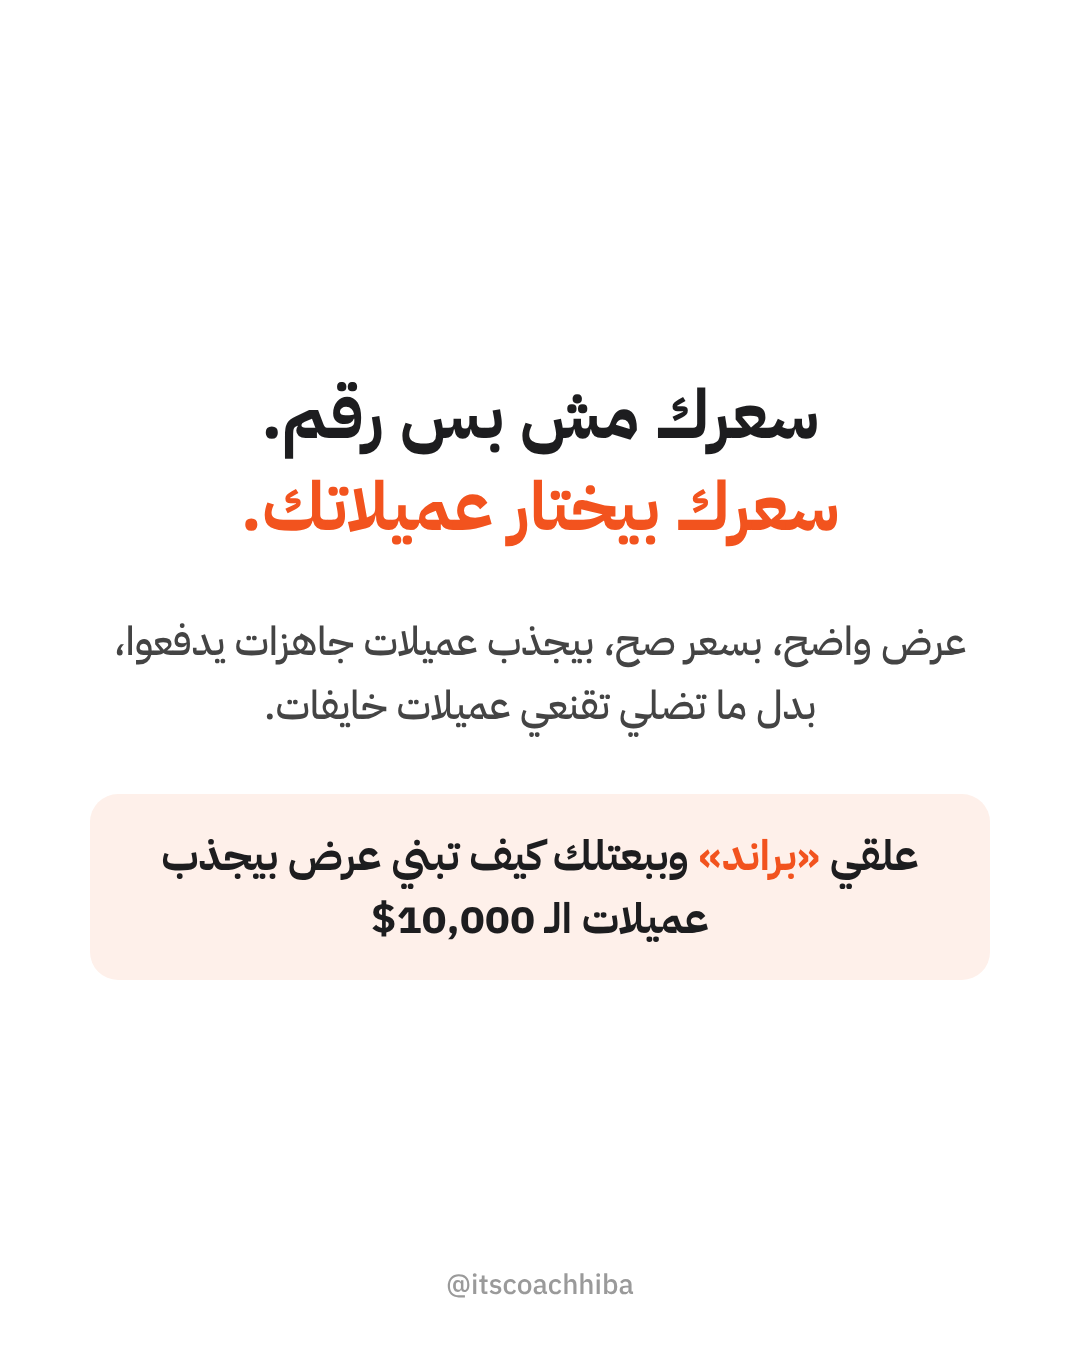
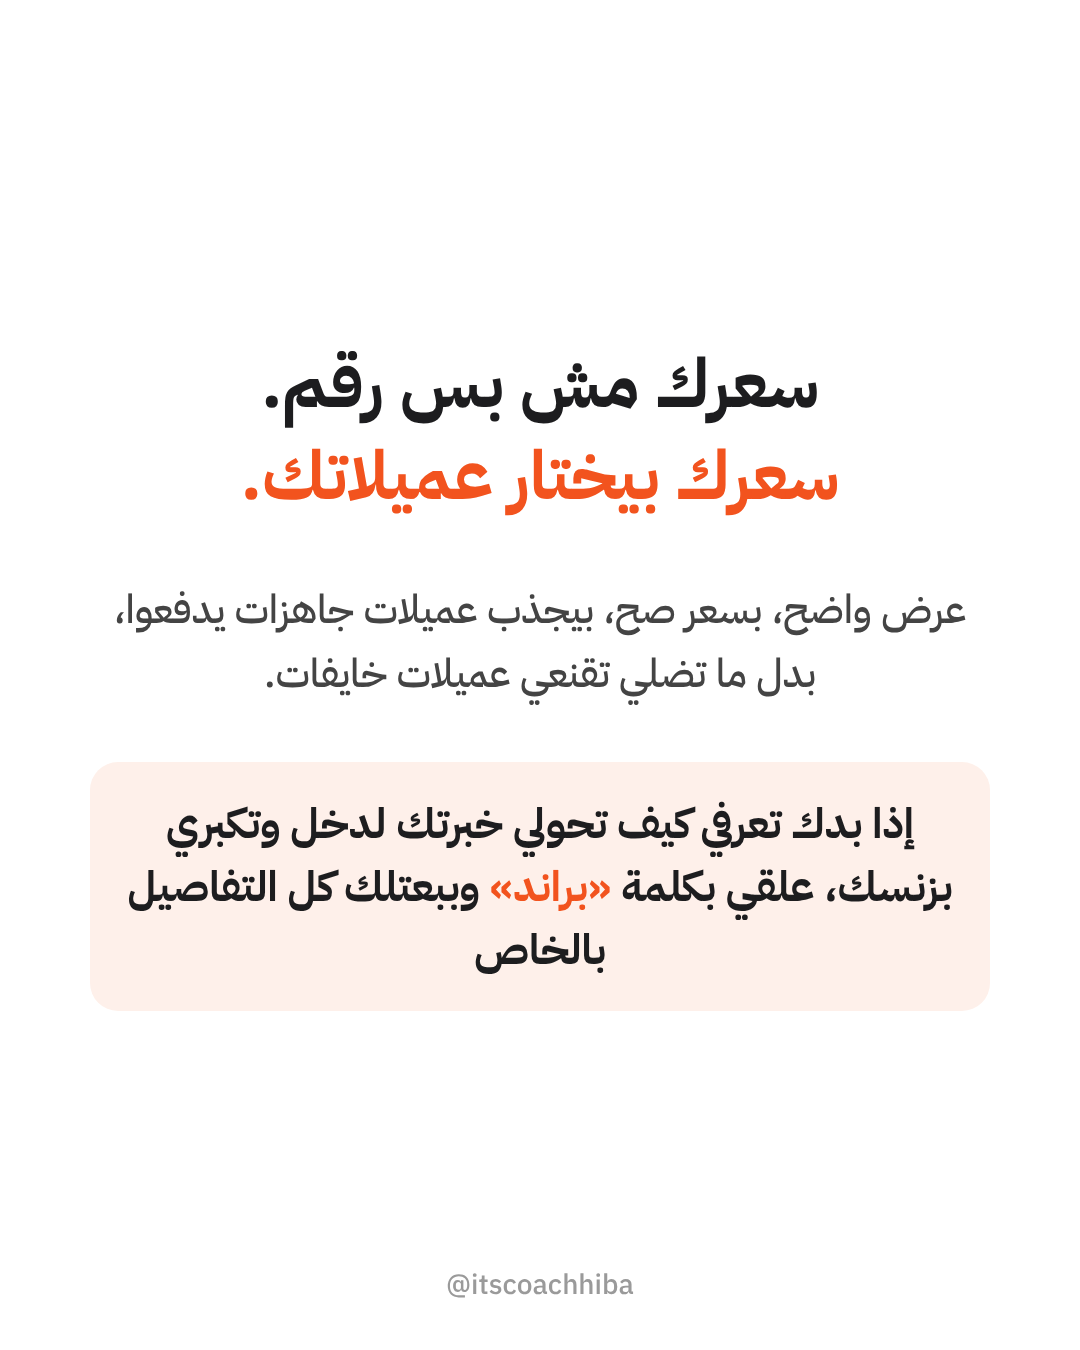
Carousel 19: chat-style messages and new CTA
Claude-Session: https://claude.ai/code/session_01Q3F4hydPDiJyjfKYRyCC3U

Changed region(s): [[0.1222, 0.5911, 0.8861, 0.7156], [0.0917, 0.4356, 0.8861, 0.56], [0.2444, 0.2489, 0.7944, 0.4044]]

diff --git a/carousels/19-500-vs-10k-client/carousel.html b/carousels/19-500-vs-10k-client/carousel.html
@@ -10,9 +10,14 @@
 .lab.r{right:122px}.lab.l{left:95px}
 .swipe{position:absolute;bottom:24px;left:0;right:0;font-weight:500;font-size:34px;color:#333}
 .q .half{position:absolute;bottom:-30px;height:1120px}
-.q.r .half{right:-60px}.q.l .half{left:-60px}
-.tag{position:absolute;top:80px;color:#fff;font-weight:700;font-size:44px;padding:10px 34px;border-radius:40px}
-.q.r .tag{right:70px}.q.l .tag{left:70px}
+.q.r .half{left:-10px}.q.l .half{left:-60px}
+.tag{color:#fff;font-weight:700;font-size:44px;padding:10px 34px;border-radius:40px;margin-bottom:14px}
+.chat{position:absolute;top:80px;width:600px;display:flex;flex-direction:column;align-items:flex-start;gap:12px}
+.q.r .chat{right:50px;width:560px}.q.l .chat{left:60px}
+.msg{background:#EDEDF0;border-radius:28px 28px 28px 8px;padding:14px 26px;font-weight:500;font-size:36px;line-height:1.4;box-shadow:0 2px 8px rgba(0,0,0,.07)}
+.msg.g{background:#2F5A3A;color:#fff;font-weight:700;font-size:48px;padding:20px 34px}
+.seen{font-weight:500;font-size:28px;color:#2F5A3A;margin:0 12px}
+
 .bubble{position:absolute;top:190px;width:560px;background:#fff;border:4px solid;border-radius:34px;padding:34px 38px;text-align:right;box-shadow:0 18px 50px rgba(0,0,0,.12)}
 .q.r .bubble{left:60px}.q.l .bubble{right:60px;width:500px}
 .bubble p{font-weight:500;font-size:40px;line-height:1.6}
@@ -25,15 +30,13 @@
 <div class="lab r" style="color:#B3262B">عميلة <span dir="ltr">$500</span><i style="background:#B3262B"></i></div>
 <div class="lab l" style="color:#2F5A3A">عميلة <span dir="ltr">$10,000</span><i style="background:#2F5A3A"></i></div>
 <div class="swipe">اسحبي لتشوفي الفرق ←</div></section><section class="slide q r"><img class="half" src="thinking.jpg">
-<div class="tag" style="background:#B3262B">عميلة <span dir="ltr">$500</span></div>
-<div class="bubble" style="border-color:#B3262B"><p>«بحس إنو مع هالاستثمار اللي رح أعمله فيكي، لازم نفهم كيف رح تتغير حياتنا. أنا بدي نتايج، وإنتي لازم تجيبيها. أنا عم أأتمنك على رزقنا وعلى حياتنا.»</p></div><div class="h">@itscoachhiba</div></section><section class="slide q l"><img class="half" src="ready.jpg">
-<div class="tag" style="background:#2F5A3A">عميلة <span dir="ltr">$10,000</span></div>
-<div class="bubble" style="border-color:#2F5A3A"><p>«حولت المصاري. شكرا.»</p></div><div class="h">@itscoachhiba</div></section><section class="slide txt"><div class="box">
+<div class="chat"><div class="tag" style="background:#B3262B">عميلة <span dir="ltr">$500</span></div><div class="msg">بحس إنو بدي وقت لأفكر أكتر</div><div class="msg">أنا بدي نتائج وإنتي لازم تجيبيها</div><div class="msg">أنا عم أأتمنك على رزقنا وحياتنا</div><div class="msg">لازم آخد رأي فلان قبل ما أبدأ</div><div class="msg">في خيارات تقسيط على 6 شهور؟</div><div class="msg">محتاجة معلومات أكتر</div></div><div class="h">@itscoachhiba</div></section><section class="slide q l"><img class="half" src="ready.jpg">
+<div class="chat"><div class="tag" style="background:#2F5A3A">عميلة <span dir="ltr">$10,000</span></div><div class="msg g">حولت المصاري. شكرا.</div><div class="seen">✓✓ تم الدفع</div></div><div class="h">@itscoachhiba</div></section><section class="slide txt"><div class="box">
 <p class="big">العميلة اللي بتدفع أقل…<br><b style="color:#B3262B">بتطلب أكتر.</b></p>
 <p class="big">والعميلة اللي بتدفع أكتر…<br><b style="color:#2F5A3A">بتثق أكتر.</b></p>
 <p class="sub">لأنها ما عم تشتري ساعات من وقتك. عم تشتري نتيجة واضحة من شخص بتعرف شو بيقدم.</p>
 </div><div class="h">@itscoachhiba</div></section><section class="slide txt"><div class="box">
 <p class="big">سعرك مش بس رقم.<br><b style="color:#F2531E">سعرك بيختار عميلاتك.</b></p>
 <p class="sub">عرض واضح، بسعر صح، بيجذب عميلات جاهزات يدفعوا، بدل ما تضلي تقنعي عميلات خايفات.</p>
-<div class="cta">علقي <b>«براند»</b> وببعتلك كيف تبني عرض بيجذب عميلات الـ <span dir="ltr">$10,000</span></div>
+<div class="cta">إذا بدك تعرفي كيف تحولي خبرتك لدخل وتكبري بزنسك، علقي بكلمة <b>«براند»</b> وببعتلك كل التفاصيل بالخاص</div>
 </div><div class="h">@itscoachhiba</div></section></body></html>

diff --git a/carousels/19-500-vs-10k-client/build.py b/carousels/19-500-vs-10k-client/build.py
@@ -10,15 +10,16 @@ slides.append(f'''<section class="slide cover"><img class="full" src="both.jpg">
 <div class="lab l" style="color:{GREEN}">عميلة <span dir="ltr">$10,000</span><i style="background:{GREEN}"></i></div>
 <div class="swipe">اسحبي لتشوفي الفرق ←</div></section>''')
 
-def quote(img, color, label, q, side):
+def quote(img, color, label, msgs, side, green=False):
+    b = "".join(f'<div class="msg{" g" if green else ""}">{m}</div>' for m in msgs)
+    seen = '<div class="seen">✓✓ تم الدفع</div>' if green else ''
     return f'''<section class="slide q {side}"><img class="half" src="{img}">
-<div class="tag" style="background:{color}">{label}</div>
-<div class="bubble" style="border-color:{color}"><p>{q}</p></div>{H}</section>'''
+<div class="chat"><div class="tag" style="background:{color}">{label}</div>{b}{seen}</div>{H}</section>'''
 
 slides.append(quote("thinking.jpg", RED, 'عميلة <span dir="ltr">$500</span>',
-    "«بحس إنو مع هالاستثمار اللي رح أعمله فيكي، لازم نفهم كيف رح تتغير حياتنا. أنا بدي نتايج، وإنتي لازم تجيبيها. أنا عم أأتمنك على رزقنا وعلى حياتنا.»", "r"))
-slides.append(quote("ready.jpg", GREEN, 'عميلة <span dir="ltr">$10,000</span>',
-    "«حولت المصاري. شكرا.»", "l"))
+    ["بحس إنو بدي وقت لأفكر أكتر", "أنا بدي نتائج وإنتي لازم تجيبيها", "أنا عم أأتمنك على رزقنا وحياتنا",
+     "لازم آخد رأي فلان قبل ما أبدأ", "في خيارات تقسيط على 6 شهور؟", "محتاجة معلومات أكتر"], "r"))
+slides.append(quote("ready.jpg", GREEN, 'عميلة <span dir="ltr">$10,000</span>', ["حولت المصاري. شكرا."], "l", True))
 
 slides.append(f'''<section class="slide txt"><div class="box">
 <p class="big">العميلة اللي بتدفع أقل…<br><b style="color:{RED}">بتطلب أكتر.</b></p>
@@ -29,7 +30,7 @@ slides.append(f'''<section class="slide txt"><div class="box">
 slides.append(f'''<section class="slide txt"><div class="box">
 <p class="big">سعرك مش بس رقم.<br><b style="color:{ORANGE}">سعرك بيختار عميلاتك.</b></p>
 <p class="sub">عرض واضح، بسعر صح، بيجذب عميلات جاهزات يدفعوا، بدل ما تضلي تقنعي عميلات خايفات.</p>
-<div class="cta">علقي <b>«براند»</b> وببعتلك كيف تبني عرض بيجذب عميلات الـ <span dir="ltr">$10,000</span></div>
+<div class="cta">إذا بدك تعرفي كيف تحولي خبرتك لدخل وتكبري بزنسك، علقي بكلمة <b>«براند»</b> وببعتلك كل التفاصيل بالخاص</div>
 </div>{H}</section>''')
 
 css = f'''@font-face{{font-family:P;font-weight:700;src:url(ibm-plex-sans-arabic-700.woff2)}}@font-face{{font-family:P;font-weight:700;src:url(ibm-plex-sans-arabic-latin-700.woff2);unicode-range:U+0000-00FF}}
@@ -44,9 +45,14 @@ css = f'''@font-face{{font-family:P;font-weight:700;src:url(ibm-plex-sans-arabic
 .lab.r{{right:122px}}.lab.l{{left:95px}}
 .swipe{{position:absolute;bottom:24px;left:0;right:0;font-weight:500;font-size:34px;color:#333}}
 .q .half{{position:absolute;bottom:-30px;height:1120px}}
-.q.r .half{{right:-60px}}.q.l .half{{left:-60px}}
-.tag{{position:absolute;top:80px;color:#fff;font-weight:700;font-size:44px;padding:10px 34px;border-radius:40px}}
-.q.r .tag{{right:70px}}.q.l .tag{{left:70px}}
+.q.r .half{{left:-10px}}.q.l .half{{left:-60px}}
+.tag{{color:#fff;font-weight:700;font-size:44px;padding:10px 34px;border-radius:40px;margin-bottom:14px}}
+.chat{{position:absolute;top:80px;width:600px;display:flex;flex-direction:column;align-items:flex-start;gap:12px}}
+.q.r .chat{{right:50px;width:560px}}.q.l .chat{{left:60px}}
+.msg{{background:#EDEDF0;border-radius:28px 28px 28px 8px;padding:14px 26px;font-weight:500;font-size:36px;line-height:1.4;box-shadow:0 2px 8px rgba(0,0,0,.07)}}
+.msg.g{{background:#2F5A3A;color:#fff;font-weight:700;font-size:48px;padding:20px 34px}}
+.seen{{font-weight:500;font-size:28px;color:#2F5A3A;margin:0 12px}}
+
 .bubble{{position:absolute;top:190px;width:560px;background:#fff;border:4px solid;border-radius:34px;padding:34px 38px;text-align:right;box-shadow:0 18px 50px rgba(0,0,0,.12)}}
 .q.r .bubble{{left:60px}}.q.l .bubble{{right:60px;width:500px}}
 .bubble p{{font-weight:500;font-size:40px;line-height:1.6}}
